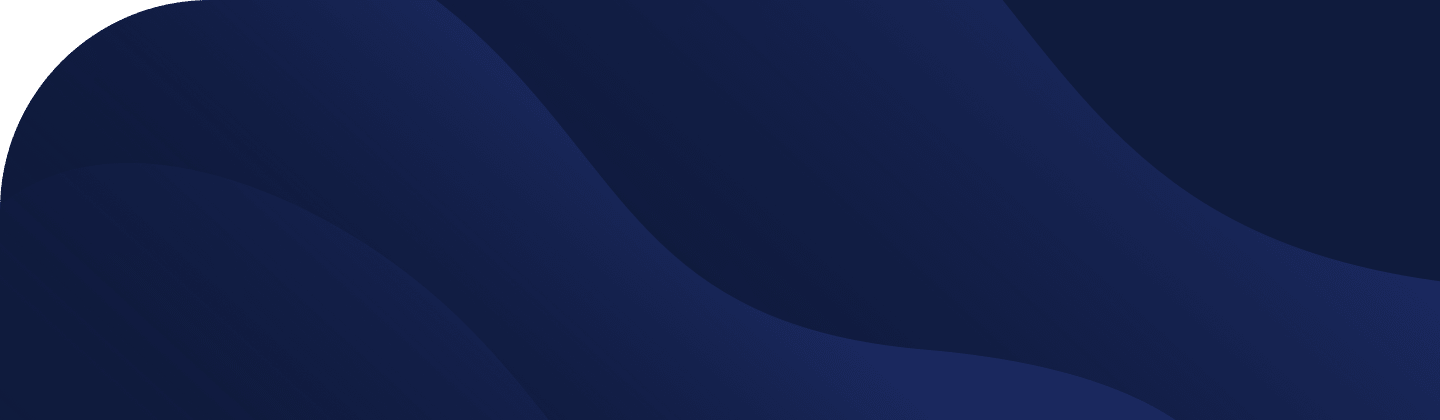
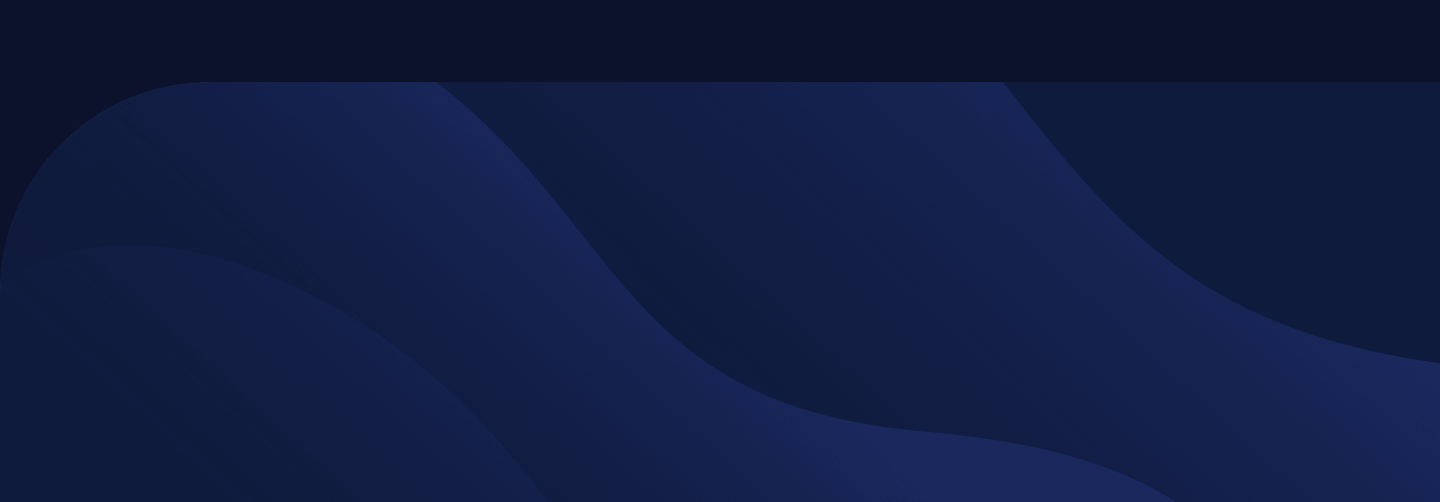
project finished

diff --git a/index.html b/index.html
@@ -5,43 +5,51 @@
     <meta name="viewport" content="width=device-width, initial-scale=1.0">
     <title>Fylo data storage component | J. David Díaz</title>
     <link rel="shortcut icon" href="assets/favicon-32x32.png" type="image/x-icon">
-    <link rel="stylesheet" media="(max-width: 375px)" href="css/mobile.css" />
-    <link rel="stylesheet" media="(min-width: 375px)" href="css/desktop.css" />
+    <link rel="stylesheet" media="(max-width: 722px)" href="css/mobile.css" />
+    <link rel="stylesheet" media="(min-width: 722px)" href="css/desktop.css" />
     <link href="https://fonts.googleapis.com/css2?family=Raleway:wght@400;700&display=swap" rel="stylesheet">
 </head>
 <body>
-    <section class="first-section">
-        <img class="logo" src="assets/logo.svg" alt="Logo">
-        <div class="icon-container">
-            <div class="icon-box">
-                <img class="icon" src="assets/icon-document.svg" alt="Document icon">
+    <div class="principal-section">
+        <section class="first-section">
+            <img class="logo" src="assets/logo.svg" alt="Logo">
+            <div class="icon-container">
+                <div class="icon-box">
+                    <img class="icon" src="assets/icon-document.svg" alt="Document icon">
+                </div>
+                <div class="icon-box">
+                    <img class="icon" src="assets/icon-folder.svg" alt="Folder icon">
+                </div>
+                <div class="icon-box">
+                    <img class="icon" src="assets/icon-upload.svg" alt="Upload icon">
+                </div>
             </div>
-            <div class="icon-box">
-                <img class="icon" src="assets/icon-folder.svg" alt="Folder icon">
+        </section>
+        <section class="second-section">
+            <span class="gb-description">
+                <p>
+                    You've used <strong>815 GB</strong> of your storage
+                </p>
+            </span>
+            <div class="bar-background">
+                <div class="bar-gradient"></div>
             </div>
-            <div class="icon-box">
-                <img class="icon" src="assets/icon-upload.svg" alt="Upload icon">
+            <div class="range-number">
+                <span>0 GB</span>
+                <span>1000 GB</span>
             </div>
-        </div>
-    </section>
-    <section class="second-section">
-        <span class="gb-description">
-            <p>
-                You've used <strong>815 GB</strong> of your storage
-            </p>
-        </span>
-        <div class="bar-background">
-            <div class="bar-gradient"></div>
-        </div>
-        <div class="range-number">
-            <span>0 GB</span>
-            <span>1000 GB</span>
-        </div>
-        <div class="gb-bottom-container">
-            <span class="gb-bottom-number">185</span>
-            <span class="gb-bottom-text">GB LEFT</span>
-        </div>
-    </section>
+            <div class="gb-bottom-container">
+                <span class="gb-bottom-number">185</span>
+                <span class="gb-bottom-text">GB LEFT</span>
+            </div>
+        </section>
+    </div>
+    <div class="attribution">
+        Challenge by
+        <a href="https://www.frontendmentor.io?ref=challenge" target="_blank"
+          >Frontend Mentor</a
+        >. Coded by <a href="https://github.com/jdaviddiazo">J. David Díaz (@jdaviddiazo)</a>.
+    </div>
     
 </body>
 </html>

diff --git a/css/desktop.css b/css/desktop.css
@@ -10,7 +10,7 @@
     --grayish-blue: hsl(229, 7%, 55%);
     --dark-blue: hsl(228, 56%, 26%);
     --dark-blue-icon: #121e47;
-    --very-dark-blue: hsl(229, 57%, 11%);
+    --very-dark-blue: #020a29;
 }
 
 html {
@@ -19,20 +19,26 @@ html {
 }
 
 body {
+    background-color: var(--very-dark-blue);
+    margin-top: 20rem;
+
+}
+
+.principal-section {
     background: url('../assets/bg-desktop.png');
     background-size: cover;
     background-repeat: no-repeat;
     background-color: var(--very-dark-blue);
     display: flex;
     justify-content: center;
-    margin-top: 20rem;
+    padding-bottom: 50rem;
 }
 
 .first-section {
     background-color: var(--dark-blue);
-    /* width: 18%; */
     padding: 4rem;
     border-radius: 1rem 9rem 1rem 1rem;
+    width: 35rem;
 }
 
 .icon-container {
@@ -57,7 +63,7 @@ body {
     margin-top: 4rem;
     margin-left: 3rem;
     border-radius: 1rem;
-    /* width: 30%; */
+    width: 55rem;
 }
 
 .gb-description {
@@ -141,3 +147,13 @@ body {
     color: var(--grayish-blue);
     margin-left: 1rem;
 }
+
+.attribution {
+    color: #fff;
+    margin-top: -5rem;
+    font-size: 1.1rem;
+    text-align: center;
+  }
+  .attribution a {
+    color: var(--pale-blue);
+  }

diff --git a/css/mobile.css b/css/mobile.css
@@ -125,3 +125,13 @@ body {
     color: var(--grayish-blue);
     margin-left: 1rem;
 }
+
+.attribution {
+    color: #fff;
+    margin-top: 10rem;
+    font-size: 1.1rem;
+    text-align: center;
+  }
+  .attribution a {
+    color: var(--pale-blue);
+  }

diff --git a/README.md b/README.md
@@ -1,0 +1,6 @@
+# Frontend Mentor | Social Proof Section
+
+Hello! My name is J. David Díaz and I am passionate about web design and development. Here is my result for the challenge proposed by Fronted Mentor [click here to go](https://www.frontendmentor.io/challenges/fylo-data-storage-component-1dZPRbV5n).
+This is my final result: 
+
+Thanks!
